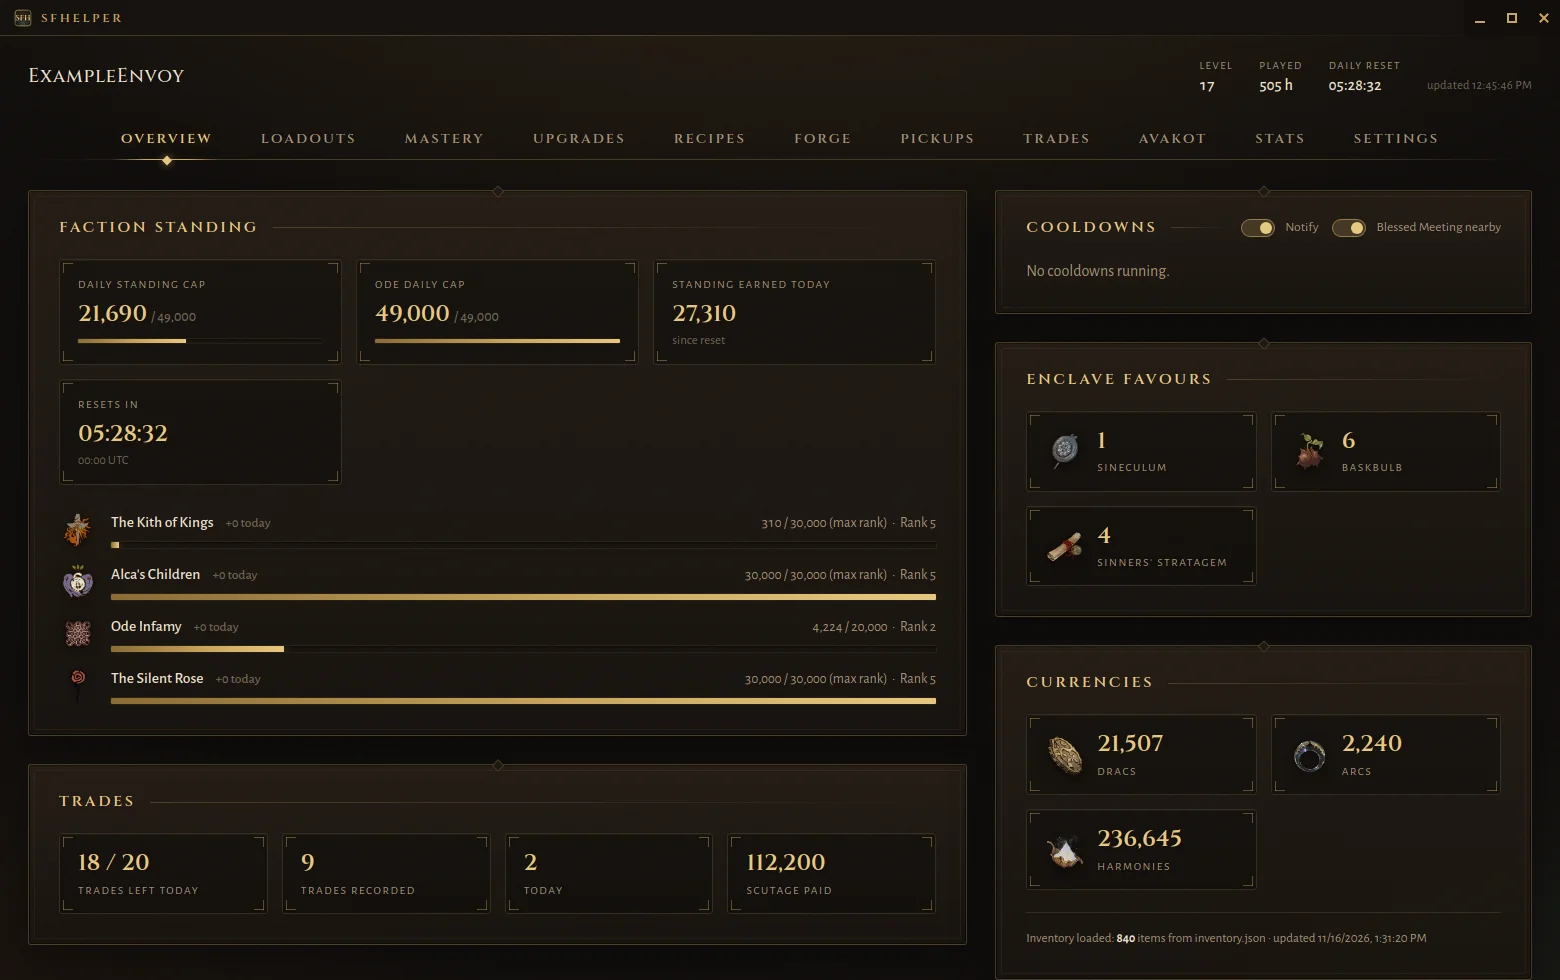
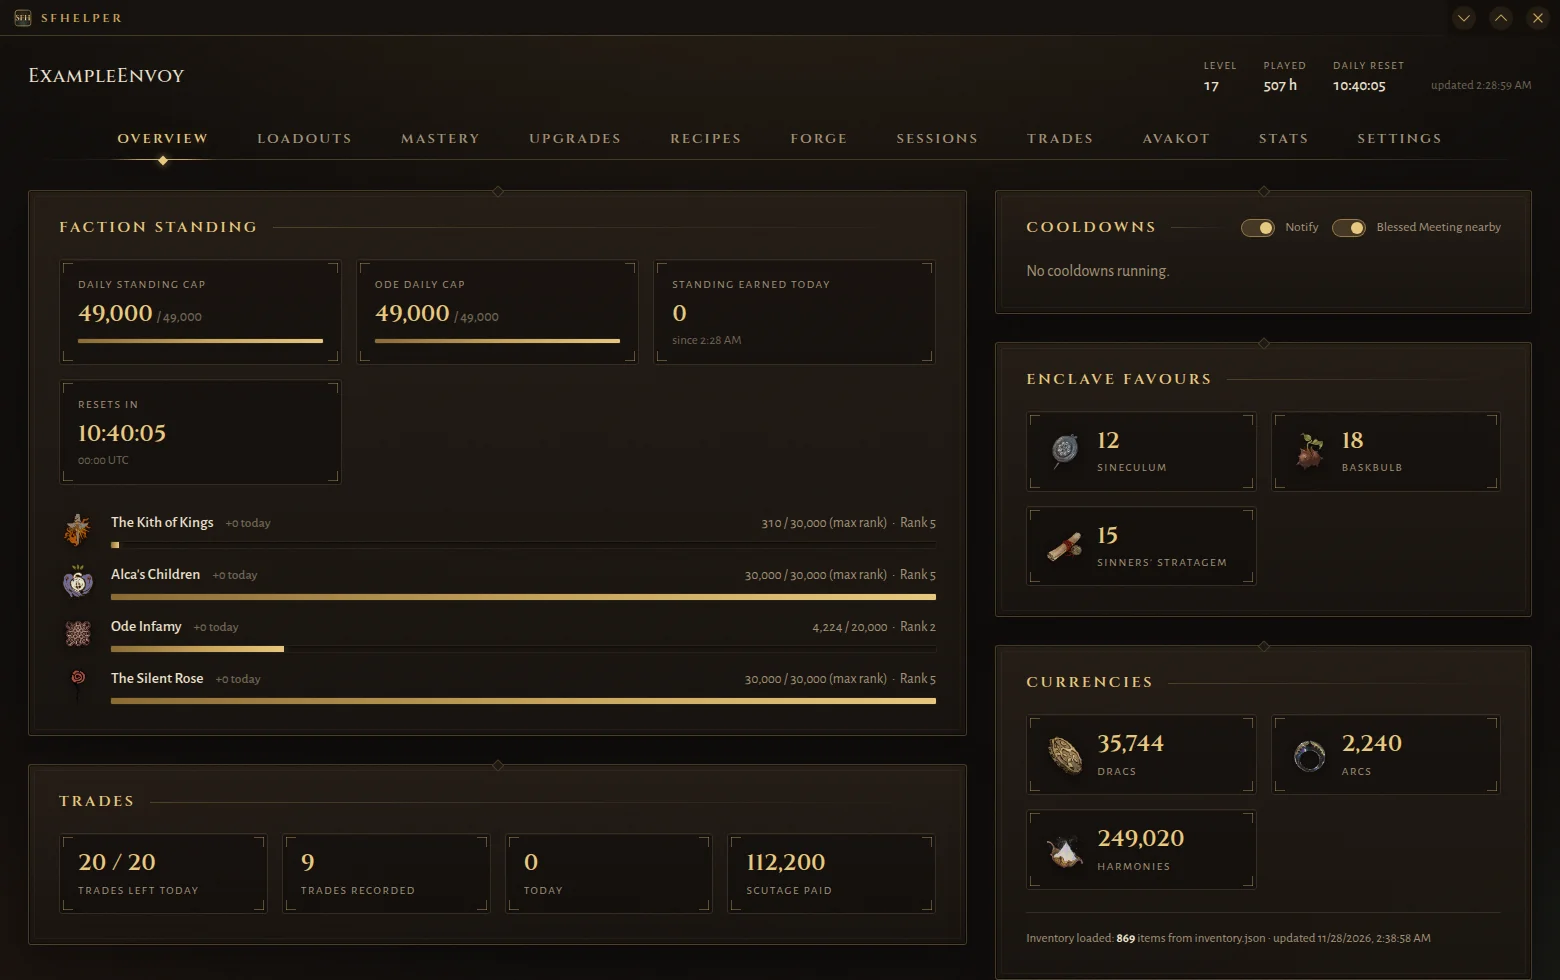
Renamed the Pickups tab to Sessions, Added a search to Play Sessions, Retook the README screenshots

diff --git a/src/server/public/index.html b/src/server/public/index.html
@@ -1137,7 +1137,7 @@
         <button class="tab" data-tab="upgrades">Upgrades</button>
         <button class="tab" data-tab="recipes">Recipes</button>
         <button class="tab" data-tab="forge">Forge</button>
-        <button class="tab" data-tab="pickups">Pickups</button>
+        <button class="tab" data-tab="pickups">Sessions</button>
         <button class="tab" data-tab="trades">Trades</button>
         <button class="tab" data-tab="avakot">Avakot</button>
         <button class="tab" data-tab="stats">Stats</button>
@@ -1312,8 +1312,8 @@
       </div>
 
       <div class="panel" id="panel-pickups">
-        <div class="subtabs" id="pickupTabs" role="tablist" aria-label="Pickups">
-          <button class="fchip" role="tab" data-view="sessions"><img src="img/game/category-loot.png" alt="" onerror="this.remove()">Sessions</button>
+        <div class="subtabs" id="pickupTabs" role="tablist" aria-label="Sessions">
+          <button class="fchip" role="tab" data-view="sessions"><img src="img/game/category-loot.png" alt="" onerror="this.remove()">Play Sessions</button>
           <button class="fchip" role="tab" data-view="runs"><img src="img/game/dungeon-entrance.png" alt="" onerror="this.remove()">Dungeon Runs</button>
           <button class="fchip" role="tab" data-view="weapons"><img src="img/game/category-weapons.png" alt="" onerror="this.remove()">Weapons</button>
         </div>
@@ -1325,6 +1325,7 @@
             <button class="mini" data-hist="import" title="Add play sessions, pickups and trades from an exported file. Nothing already here is replaced.">Import</button>
             <span class="histmsg"></span>
           </div>
+          <input id="sessionSearch" class="wsearch" placeholder="Search loot, Totems or dungeons, e.g. Quenching Acid, Spirit, Glades…" spellcheck="false" />
           <div class="daily" id="sessionSummary"></div>
           <div id="sessions"><span class="muted">Each time you play, what you pick up shows here as a session: resources, fragments, weapons, armour, Totems and more. SFHelper needs to be open while you play.</span></div>
         </section>
@@ -2249,11 +2250,31 @@
         for (const it of p.logTotems || []) totem(it);
         return LOOT_GROUPS.map((g) => ({ name: g, rows: [...groups.get(g).values()].sort((a, b) => b.n - a.n || a.name.localeCompare(b.name)) })).filter((g) => g.rows.length);
       }
-      function sessionCard(p, now) {
+      let SESSION_SEARCH = "";
+      // What a session shows for a search: loot rows by name, group, a Totem's roll
+      // or a weapon's craftwork, dungeon runs by dungeon, XP by weapon or Pact.
+      function sessionParts(p, words) {
+        const groups = sessionLoot(p);
+        const runs = (p.runs || []).filter((r) => r.name);
+        const xp = Object.entries(p.xp || {}).sort((a, b) => b[1] - a[1]);
+        if (!words.length) return { groups, runs, xp: xp.slice(0, 6) };
+        const rowWords = (g, r) => {
+          const cw = r.weapon ? craftworkInfo(r.weapon.craftwork) : null;
+          const roll = r.totem ? `${r.totem.virtue || ""} ${r.totem.grip} Rank ${r.totem.rank}` : "";
+          return [r.name, g, roll, cw && cw.name, r.weapon && r.weapon.moonsteel ? "Moonsteel" : ""];
+        };
+        return {
+          groups: groups.map((g) => ({ ...g, rows: g.rows.filter((r) => matchesWords(words, rowWords(g.name, r))) })).filter((g) => g.rows.length),
+          runs: runs.filter((r) => matchesWords(words, [r.name, /Subboss/i.test(r.level) ? "Agari" : "", "Dungeon Runs"])),
+          xp: xp.filter(([k]) => matchesWords(words, [shortName(k), "XP"])),
+        };
+      }
+      const partsFound = (x) => x.groups.length || x.runs.length || x.xp.length;
+      function sessionCard(p, now, parts) {
         const live = sessionLive(p, now);
         const end = live ? Math.max(p.end, now) : p.end;
-        const groups = sessionLoot(p);
-        const items = groups.reduce((n, g) => n + g.rows.reduce((m, r) => m + r.n, 0), 0);
+        const { groups, runs: runList, xp: xpList } = parts;
+        const items = sessionLoot(p).reduce((n, g) => n + g.rows.reduce((m, r) => m + r.n, 0), 0);
         const xp = Object.values(p.xp || {}).reduce((a, b) => a + b, 0);
         const runs = (p.runs || []).filter((r) => r.name);
         const meta = [
@@ -2277,9 +2298,8 @@
         };
         // Short groups stay in one column; long ones flow across columns.
         const loot = groups.map((g) => `<div class="lootgrp${g.rows.length <= 6 ? " keep" : ""}"><div class="lootlabel">${g.name}</div><ul>${g.rows.map(row).join("")}</ul></div>`).join("");
-        const topXp = Object.entries(p.xp || {}).sort((a, b) => b[1] - a[1]).slice(0, 6)
-          .map(([k, n]) => `<span class="xpchip">${escHtml(shortName(k))} <b>+${fmt(n)}</b></span>`).join("");
-        const runRows = runs.map((r) => {
+        const topXp = xpList.map(([k, n]) => `<span class="xpchip">${escHtml(shortName(k))} <b>+${fmt(n)}</b></span>`).join("");
+        const runRows = runList.map((r) => {
           const e = runEnd(r, p);
           return `<li><span class="rname">${escHtml(r.name)}</span><span class="rwhen">${clockTime(r.start)}</span><span class="rtime">${e === null ? '<span class="live">Inside now</span>' : spanTime(e - r.start)}</span></li>`;
         }).join("");
@@ -2302,15 +2322,28 @@
         const all = (LAST_SESSIONS || []).filter((p) => !p.ended || p.end - p.start >= 60000 || p.reads || (p.runs || []).length);
         const now = Date.now();
         const played = all.reduce((n, p) => n + ((sessionLive(p, now) ? Math.max(p.end, now) : p.end) - p.start), 0);
-        $("sessionSummary").innerHTML = all.length
-          ? `<b>${all.length}</b> session${all.length === 1 ? "" : "s"} &nbsp;·&nbsp; <b>${spanTime(played)}</b> played <span class="muted" title="Loot comes from SFHelper's inventory reads, which follow the game's saves (every few minutes), so it's counted per session rather than per pickup. Totems animals give you show at once, from the game's log. Trades, crafts you collect and Avakot purchases are left out.">&nbsp;·&nbsp; what came in between the game's saves</span>`
-          : "";
+        const words = searchWords(SESSION_SEARCH);
+        const hits = all.map((p) => ({ p, parts: sessionParts(p, words) })).filter((h) => !words.length || partsFound(h.parts));
+        const note = `<span class="muted" title="Loot comes from SFHelper's inventory reads, which follow the game's saves (every few minutes), so it's counted per session rather than per pickup. Totems animals give you show at once, from the game's log. Trades, crafts you collect and Avakot purchases are left out.">&nbsp;·&nbsp; what came in between the game's saves</span>`;
+        const found = hits.reduce((n, h) => n + h.parts.groups.reduce((m, g) => m + g.rows.reduce((k, r) => k + r.n, 0), 0), 0);
+        const runsFound = hits.reduce((n, h) => n + h.parts.runs.length, 0);
+        $("sessionSummary").innerHTML = !all.length ? ""
+          : words.length
+            ? [found ? `<b>${fmt(found)}</b> matching item${found === 1 ? "" : "s"}` : "", runsFound ? `<b>${runsFound}</b> dungeon run${runsFound === 1 ? "" : "s"}` : ""].filter(Boolean).join(" &nbsp;·&nbsp; ") +
+              `${found || runsFound ? " in " : ""}<b>${hits.length}</b> of ${all.length} session${all.length === 1 ? "" : "s"}`
+            : `<b>${all.length}</b> session${all.length === 1 ? "" : "s"} &nbsp;·&nbsp; <b>${spanTime(played)}</b> played ${note}`;
         if (!all.length) return;
-        const shown = sessionsAll ? all : all.slice(0, SESSION_SHOWN);
+        const shown = sessionsAll ? hits : hits.slice(0, SESSION_SHOWN);
         SESSION_POP.clear();
-        $("sessions").innerHTML = shown.map((p) => sessionCard(p, now)).join("") +
-          (all.length > shown.length ? `<button class="mini" id="sessionsMore">Show all ${all.length}</button>` : "");
+        $("sessions").innerHTML = !hits.length
+          ? '<span class="muted">No sessions match.</span>'
+          : shown.map((h) => sessionCard(h.p, now, h.parts)).join("") +
+            (hits.length > shown.length ? `<button class="mini" id="sessionsMore">Show all ${hits.length}</button>` : "");
       }
+      $("sessionSearch").addEventListener("input", (e) => {
+        SESSION_SEARCH = e.target.value;
+        renderSessions();
+      });
       $("sessions").addEventListener("click", (e) => {
         if (!e.target.closest("#sessionsMore")) return;
         sessionsAll = true;

diff --git a/README.md b/README.md
@@ -20,7 +20,7 @@ Runs on **Linux** (AppImage) and **Windows** (installer).
 | **Upgrades** | Split into Tempers, Runes, Joineries, Gear and Totems tabs. Tuvalkane temper learning, with each Temper's exact numbers from the game files (per weapon type where they differ) and a sort by Origin; your Runes by weapon art with their rank (1 to 4), the Totem slot they add and their numbers at that rank; your Joineries by metal and blessing, filterable by Virtue and blessing, with how many Attunement Pips each adds on hover; your Gear, with what's equipped and the numbers the game gives (e.g. a Virtue Elixir's +10 for an hour), filterable by type (Virtue Elixirs among them) and lures by Habitat and Nature (e.g. Lake, Bottom Feeder); and your Totems with Virtue / grip / type / trigger filters. Click a Totem's rank diamonds to see its numbers at any rank. Each subtab has the game's own icon, a search and a Sort by menu (e.g. Runes by weapon, Totem slot, name, rank or copies; Joineries by metal, Virtue, blessing, name or count). |
 | **Recipes** | Everything you can brew with the Witch Verminia (Elixirs, Pup Treats and Palettes), the Chordstones Tuvalkane casts, the weapons and armour you can craft, and the Pacts Tuvalkane forges from Pact Fragments: each recipe's ingredients against what you have, what you're short of, how many of the finished item you already own, and the Dracs and time it takes. A Pact you already own, or one that's curing, is marked as such, since the game won't forge a second. Search by recipe or ingredient, and filter by type, slot, Virtue, or by what's ready to make. Star a recipe to get a desktop notification once you have everything for it. |
 | **Forge** | What you're crafting with Tuvalkane or Verminia, using the game's own words: each craft's curing time and how long is left (Ready To Claim, In Progress). Get a desktop notification when a craft is ready to claim. Temper Plans: every weapon you own, from Stock to Legendary, with its craftwork, rank and Tempers, plus the weapons you don't own yet (greyed out). Plan the 8 Temper slots a Legendary weapon holds (only Tempers that fit the weapon are offered) and see which planned Tempers are already struck, which still need striking, and which Tempers on the weapon aren't in the plan. Choose from every Temper or only the ones Tuvalkane has learned; planned Tempers you haven't learned yet are marked. Search by weapon or Temper, sort by craftwork, Tempers struck, rank, weapon type or name, and filter to owned, unowned or planned weapons. A switch removes a plan by itself once every Temper it asks for is struck. |
-| **Pickups** | Split into Sessions, Dungeon Runs and Weapons tabs. Sessions: each time you play, what came into your inventory, grouped as weapons, armour, Totems (each with its Virtue, grip and rank, and its effect on hover), Runes, Joineries, fragments, resources (plants, flowers, ores…) and supplies, with the XP your weapons and Pacts earned and the dungeons you ran. Totems that animals give you show up straight away, from the game's log. Trades, crafts you collect and Avakot purchases are left out. Dungeon Runs: every dungeon you enter (Rovgot Ruins, Glades of Andurin, Neath'uns…), timed from the game's log, with each dungeon's fastest and average time, filterable by dungeon and sortable by newest, fastest or slowest. Weapons: the weapons you've picked up, with their in-game pictures and times taken from the game's log, and optional desktop notifications for Moonsteel finds. Sessions, pickups and trades are kept on your computer; export them to move them to a new install. |
+| **Sessions** | Split into Play Sessions, Dungeon Runs and Weapons tabs. Play Sessions: each time you play, what came into your inventory, grouped as weapons, armour, Totems (each with its Virtue, grip and rank, and its effect on hover), Runes, Joineries, fragments, resources (plants, flowers, ores…) and supplies, with the XP your weapons and Pacts earned and the dungeons you ran. Totems that animals give you show up straight away, from the game's log. A search finds anything across your sessions, e.g. Quenching Acid, a Totem's Virtue or a dungeon. Trades, crafts you collect and Avakot purchases are left out. Dungeon Runs: every dungeon you enter (Rovgot Ruins, Glades of Andurin, Neath'uns…), timed from the game's log, with each dungeon's fastest and average time, filterable by dungeon and sortable by newest, fastest or slowest. Weapons: the weapons you've picked up, with their in-game pictures and times taken from the game's log, and optional desktop notifications for Moonsteel finds. Sessions, pickups and trades are kept on your computer; export them to move them to a new install. |
 | **Trades** | Your trade history, one card per trade: who you traded with, what you received and gave, with in-game icons (weapons with their craftwork and tempers, Totems with their Virtue, grip and rank), and the Scutage paid, worked out from the game's own tax table (220, 440 or 880 Dracs for each Common, Uncommon or Rare item you receive). Hover or click a Totem for its effect at the rank traded. Plus how many trades you have left today. |
 | **Avakot** | What Avakot's Gots has in stock, with prices, purchase limits, how many of each you already own and how long each item stays, plus his weekly and always-stocked wares. SFHelper checks his stock once just after it changes (currently once a day, at 00:00 UTC). Star anything he can sell to get a desktop notification when he stocks it. |
 | **Stats** | Your kills, headshots, assists and executions, deaths, revives and more; your weapons, Pacts and enemies by in-game name, with kills, headshots, assists, executions, time equipped and how often each enemy killed you, sortable by any column; and your Wolfpup: its Temperament, Energy, Training, the level trained in each skill (Guts, Speed, Endurance, Curiosity, Heart), and its food. After it runs out of Energy, the card shows when it can be summoned again, and Cooldowns lists it so you can star it for a notification. |
@@ -35,7 +35,7 @@ Runs on **Linux** (AppImage) and **Windows** (installer).
 | ![Upgrades, Runes: your Runes by weapon art, with rank and Totem slot](screenshots/upgrades-runes.webp) | ![Upgrades, Joineries: your Joineries by metal and blessing](screenshots/upgrades-joineries.webp) |
 | ![Upgrades, Gear: supplies, fishing gear and companion items, with what's equipped and the game's numbers](screenshots/upgrades-gear.webp) | ![Upgrades, Totems: your Totems with search, filters and rank diamonds](screenshots/upgrades-totems.webp) |
 | ![Recipes: brews, Chordstones, weapons, armour and Pacts, with what you have and what you're short of](screenshots/recipes.webp) | ![Forge: crafts in progress and Temper Plans, with each planned Temper struck or still to strike](screenshots/forge.webp) |
-| ![Pickups: weapons picked up, with their pictures, craftwork and tempers](screenshots/pickups.webp) | ![Trades: what you received and gave in each trade, and the Scutage paid](screenshots/trades.webp) |
+| ![Sessions: each play session's loot, with Totem rolls, XP and the game-save note](screenshots/pickups.webp) | ![Trades: what you received and gave in each trade, and the Scutage paid](screenshots/trades.webp) |
 | ![Avakot: what Avakot's Gots has in stock, with stars for notifications](screenshots/avakot.webp) | ![Stats: combat totals, your weapons, Pacts and enemies, and your Wolfpup](screenshots/stats.webp) |
 
 ## How it gets your data
@@ -128,7 +128,7 @@ something isn't working.
 Your pickup and trade history exists only in that folder, because Soulframe's
 servers don't keep it. Updating or reinstalling SFHelper keeps the folder, but
 a new computer, another OS or a fresh system install starts the history over.
-To keep it, click **Export** on the Pickups or Trades tab.
+To keep it, click **Export** on the Sessions or Trades tab.
 That saves one file with both histories and the Agari names SFHelper has
 learned. On the new install, click **Import** and pick that file. Importing
 adds what's missing and never removes or replaces anything, so it's safe to
